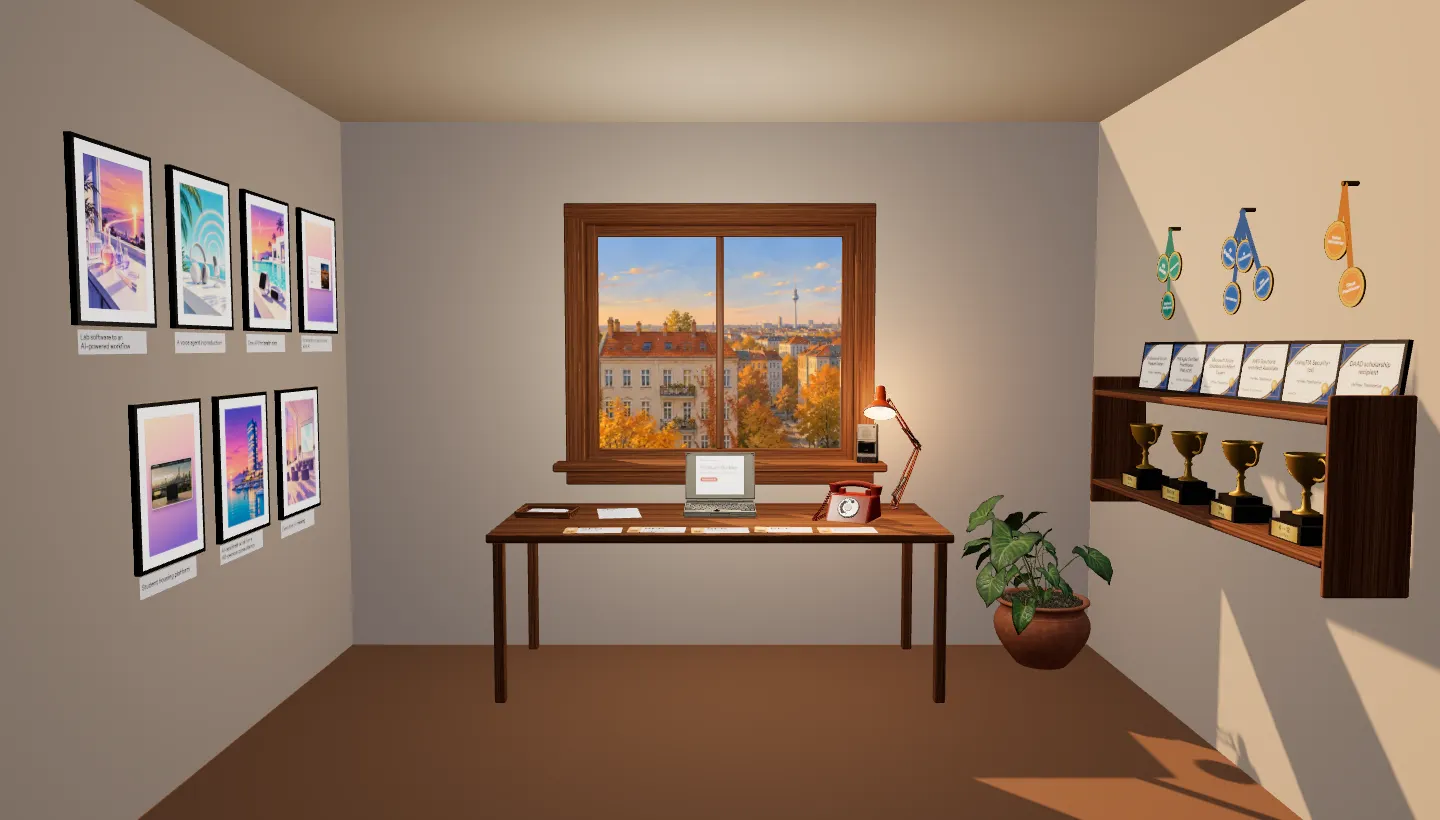
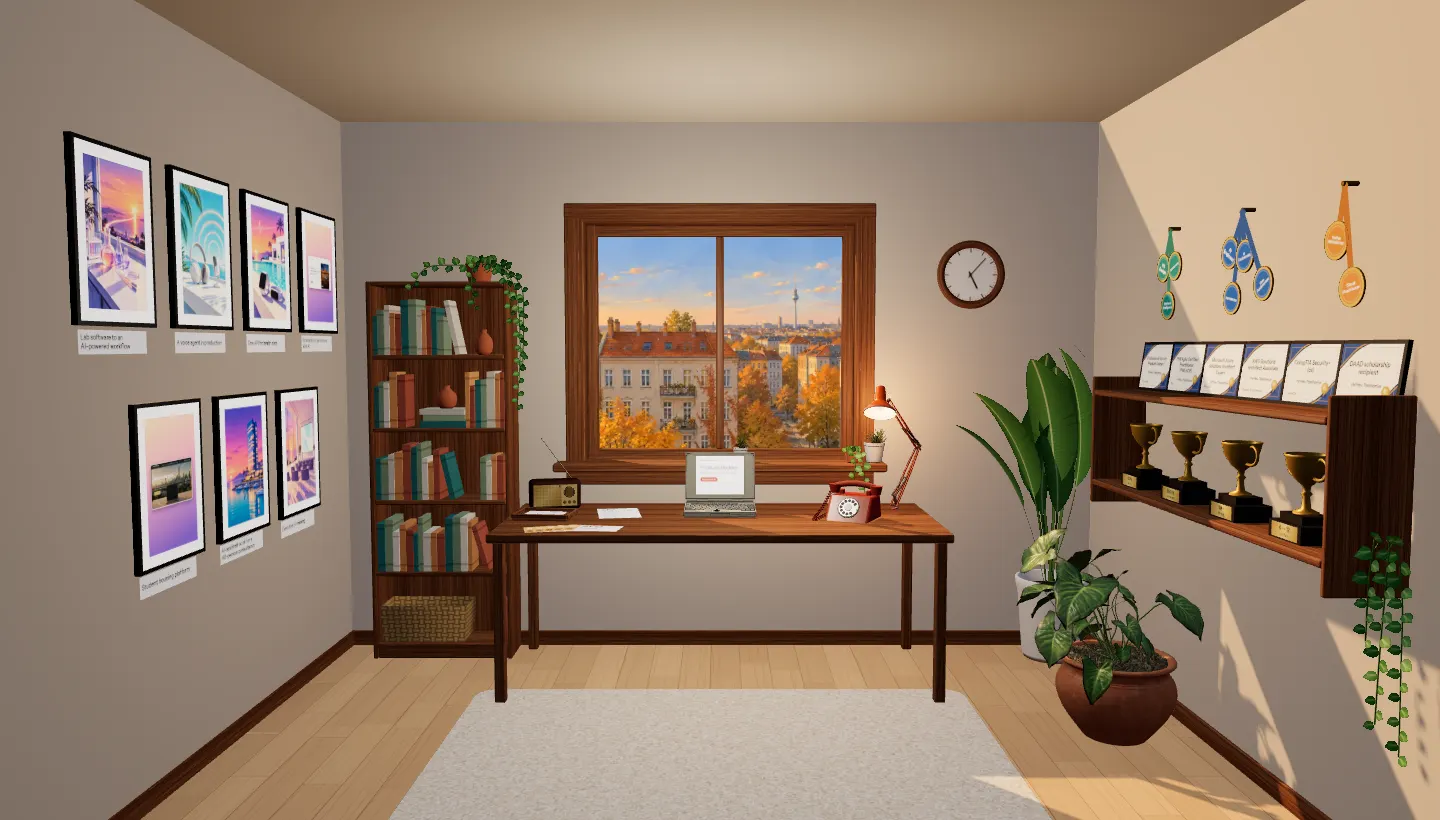
Warm the rug and render the still images of the cozy room again
The rug turns warm cream with rounded corners and a pile of short light
and shaded strokes, so it reads as wool from the rest view.

still-day.webp and still-night.webp show the rest view with the new
decor, rendered with the steps in editorial.css, so the canvas no longer
jumps when it fades in over the still. The cat is not in them: it
appears only after the first visit to #desk.

diff --git a/assets/room/room.js b/assets/room/room.js
@@ -899,21 +899,27 @@ function plankTexture() {
   return c;
 }
 
-// The rug: cream wool with a fine fluffy speckle and a soft band near its edge.
+// The rug: warm cream wool with rounded corners, its pile drawn as short light and shaded strokes.
 function rugTexture() {
   const c = document.createElement('canvas');
   c.width = 1024;
   c.height = 768;
   const g = c.getContext('2d'), rand = random(31);
-  g.fillStyle = '#efe6d6';
-  g.fillRect(0, 0, c.width, c.height);
-  for (let i = 0; i < 30000; i++) {
-    g.fillStyle = rand() < 0.5 ? `rgba(255, 252, 244, ${0.3 + rand() * 0.4})` : `rgba(160, 140, 110, ${0.06 + rand() * 0.12})`;
-    g.fillRect(rand() * c.width, rand() * c.height, 1 + rand() * 2.5, 1 + rand() * 2.5);
+  g.beginPath();
+  g.roundRect(6, 6, c.width - 12, c.height - 12, 40);
+  g.fillStyle = '#e9d6b8';
+  g.fill();
+  g.clip();
+  g.lineCap = 'round';
+  for (let i = 0; i < 60000; i++) {
+    const x = rand() * c.width, y = rand() * c.height, a = rand() * Math.PI * 2, len = 2 + rand() * 4;
+    g.strokeStyle = rand() < 0.55 ? `rgba(255, 246, 230, ${0.35 + rand() * 0.4})` : `rgba(150, 118, 82, ${0.1 + rand() * 0.16})`;
+    g.lineWidth = 1 + rand() * 1.5;
+    g.beginPath();
+    g.moveTo(x, y);
+    g.lineTo(x + Math.cos(a) * len, y + Math.sin(a) * len);
+    g.stroke();
   }
-  g.strokeStyle = 'rgba(185, 165, 135, 0.3)';
-  g.lineWidth = 12;
-  g.strokeRect(34, 34, c.width - 68, c.height - 68);
   return c;
 }
 
@@ -1945,7 +1951,7 @@ export async function start(section) {
     decor.add(terracotta, soil, heartLeaves, vines);
 
     // The rug in front of the desk: cream wool on the floor.
-    const rug = new THREE.Mesh(new THREE.PlaneGeometry(RUG.w, RUG.d).rotateX(-Math.PI / 2), new THREE.MeshStandardMaterial({ map: texture(rugTexture()), roughness: 1 }));
+    const rug = new THREE.Mesh(new THREE.PlaneGeometry(RUG.w, RUG.d).rotateX(-Math.PI / 2), new THREE.MeshStandardMaterial({ map: texture(rugTexture()), alphaTest: 0.5, roughness: 1 }));
     rug.position.set(RUG.x, 0.004, RUG.z);
     decor.add(rug);
 
